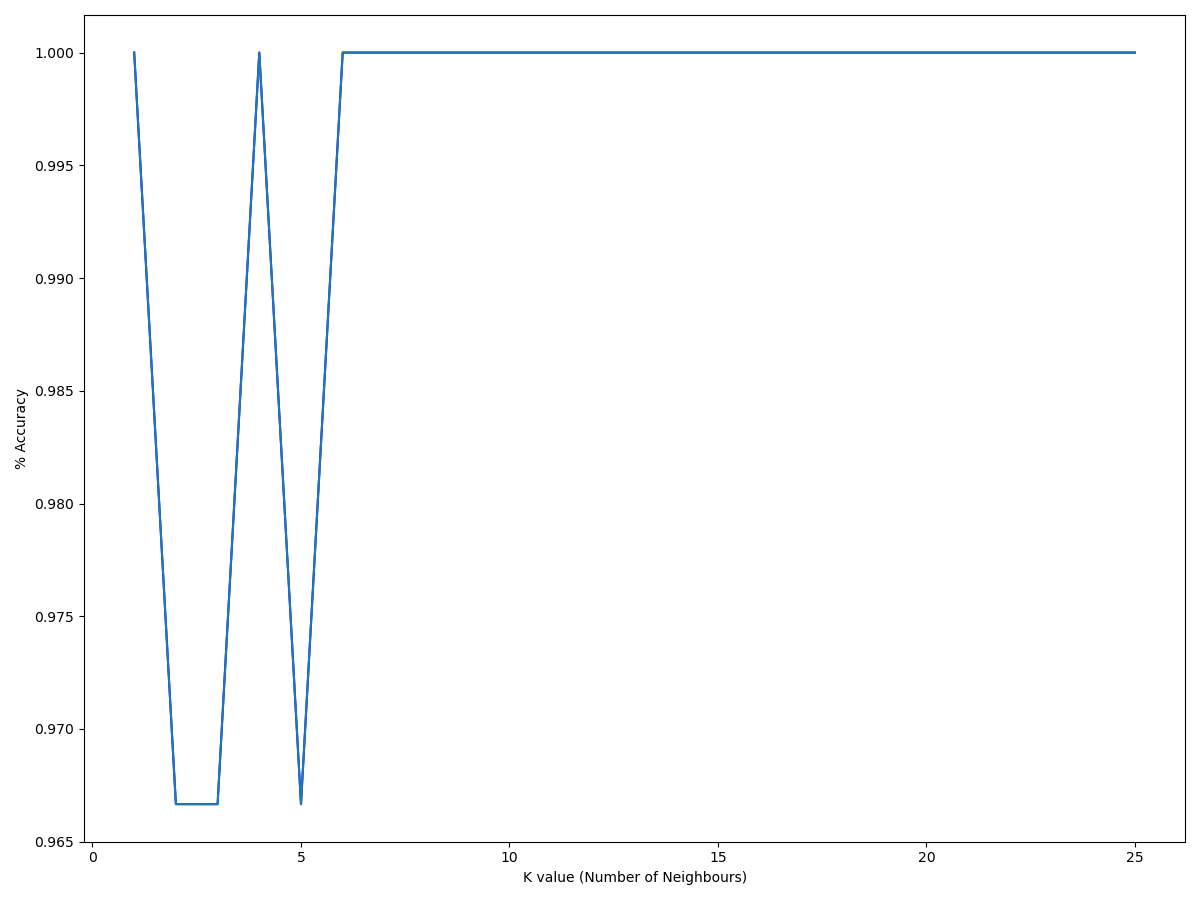
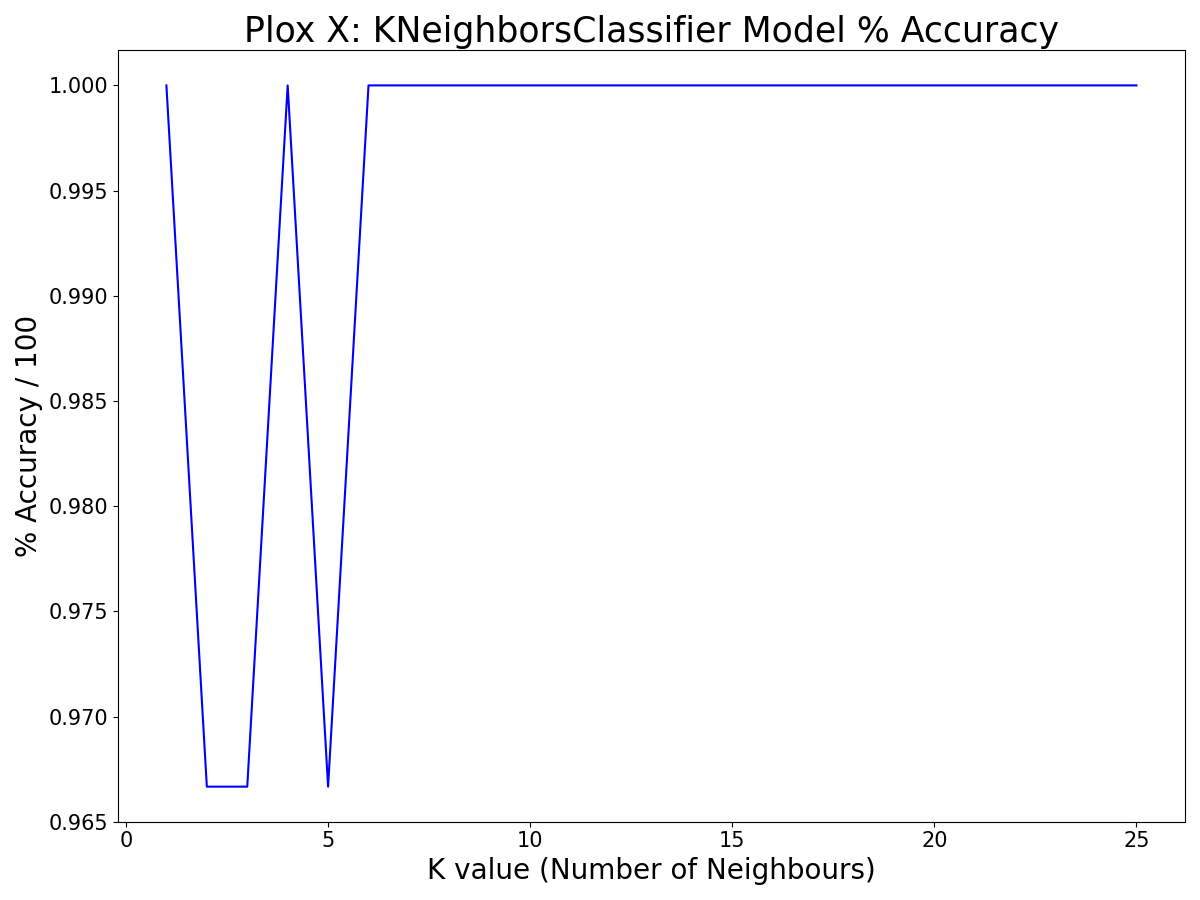
test

diff --git a/Project/analysis.py b/Project/analysis.py
@@ -1,78 +1,50 @@
 import pandas as pd
 import numpy as np
 import seaborn as sns
-from matplotlib import patches as mpatches
 import matplotlib.pyplot as plt
+from matplotlib import patches as mpatches
 import os 
 
-os.chdir(os.path.dirname(__file__))                                                              # change current directory to that of this module
+os.chdir(os.path.dirname(__file__))                                                                    # change current directory to that of this module
 
 
 def read_iris_dataset():
     iris_data_file = 'iris_data_set.txt'
-    iris_df = pd.read_csv(iris_data_file, delimiter = ',', header = None)                        # read in Iris Dataset via Pandas Library
-    iris_df.columns =['sepal_length', 'sepal_width', 'petal_length', 'petal_width','species']    # add columns headers
-    return iris_df                                                                               # return dataframe
- 
-iris_df = read_iris_dataset()                                                                    # store dataframe in iris_df variable
+    iris_df = pd.read_csv(iris_data_file, delimiter = ',', header = None)                              # read in Iris Dataset via Pandas Library
+    iris_df.columns =['sepal_length', 'sepal_width', 'petal_length', 'petal_width','species']          # add columns headers
+    return iris_df
 
+iris_df = read_iris_dataset()
 
-
-
-class summary_creator:  
-    # constructor __init__ method:
-        # called when object is Instantiated
-        # allows summary_creator class to initialise its attributes
-
-    def __init__(self, shape, data_types, null_count, species_count, desc_all_species, df_head, skewness_all_species, kurtosis_all_species, correlation):
-        self.shape = shape
-        self.data_types = data_types
-        self.null_count = null_count
-        self.species_count = species_count
-        self.desc_all_species = desc_all_species
-        self.df_head = df_head
-        self.skewness_all_species = skewness_all_species
-        self.kurtosis_all_species = kurtosis_all_species
-        self.correlation = correlation
     
+def summary_writer():
+    shape = (len(iris_df.axes[1]),len(iris_df.axes[0]))                                  # Count # rows on each axis of array
+    data_types = iris_df.dtypes                                                                                                            
+    null_count = iris_df.isnull().sum()                                                  # True for NaN / blank values
+    species_count = iris_df.groupby('species').size()                                    # Group by species get count                                 
+    desc_all_species = iris_df.describe()
+    df_head = iris_df.head(5)
+    skewness_all_species = iris_df.skew()
+    kurtosis_all_species = iris_df.kurtosis()
+    correlation = iris_df.corr()
+    pd.set_option("display.precision", 2)
+    write_summary_variables(shape, data_types, null_count, species_count, desc_all_species, df_head, skewness_all_species ,kurtosis_all_species, correlation)
 
-    # instance method
-        # calls object attributes relevant to summary
-        # writes the summaries (w = overwrite) to text file, operation will make file if doesnt exist
-    def write_function(self):
-        with open('summary_file.txt', 'w') as f:      
-            spacing_variable = ('\n' * 3)
-            f.write('Fisher Iris Dataset Summary' + spacing_variable)
-            f.write('Number of columns = {} \nNumber of rows = {}{}'.format(summary_creator_val.shape[0],summary_creator_val.shape[1],spacing_variable)) 
-            f.write('Column name:  Pandas dtypes: \n'+ str(summary_creator_val.data_types) + spacing_variable) 
-            f.write('Column name:  Null Count: \n'+ str(summary_creator_val.null_count) + spacing_variable)
-            f.write('Row Count per Species: \n'+ str(summary_creator_val.species_count) + spacing_variable)          
-            f.write(' '*17 + 'First 5 rows of the Dataset\n' + str(summary_creator_val.df_head)  + spacing_variable)
-            f.write(' '*17 + 'All Species : Summary Statistics \n' + str(summary_creator_val.desc_all_species) + spacing_variable)
-            f.write('Distribution Skewness \n' + str(summary_creator_val.skewness_all_species) + spacing_variable)
-            f.write('Distribution Kurtosis \n' + str(summary_creator_val.kurtosis_all_species) + spacing_variable)
-            f.write(' '*17 + 'All Species : Correlation Statistics \n' + str(summary_creator_val.correlation) + spacing_variable)
-
-
-def summary_variables():                                                                     # setting summary variables via pandas methods
-        shape = (len(iris_df.axes[1]),len(iris_df.axes[0]))                                  # length/width of dataframe
-        data_types = iris_df.dtypes                                                          # data-types of columns                                                           
-        null_count = iris_df.isnull().sum()                                                  # True for NaN / blank values
-        species_count = iris_df.groupby('species').size()                                    # Computes group sizes                                 
-        desc_all_species = iris_df.describe()                                                # dataframe summary 
-        df_head = iris_df.head(5)                                                            # first 5 rows of dataframe
-        skewness = iris_df.skew()                                                            # returns skew of all iris features                        
-        kurtosis = iris_df.kurtosis()                                                        # returns kurtosis of all iris features
-        correlation = iris_df.corr()                                                         # Compute pairwise Pearsons correlation of columns
-        pd.set_option("display.precision", 2)                                                # display data to 2 decimal places
-
-        # Instantiate an object of type summary_creator & return object
-        summary_creator_val = summary_creator(shape, data_types, null_count, species_count, 
-        desc_all_species, df_head, skewness, kurtosis, correlation)
-        return summary_creator_val
-
-summary_creator_val = summary_variables()                                               # set variable to object (via calling function and returning object)
-summary_creator_val.write_function()                                                    # call write_function() instance method of summary_creator class
+   
+# this function recieves all the summary variables from "summary_writer" function and writes them to summary_file.txt
+def write_summary_variables(shape, data_types, null_count, species_count, desc_all_species, df_head, skewness_all_species, kurtosis_all_species, correlation):
+    with open('summary_file.txt', 'w') as f:
+        skip_three_lines = ('\n' * 3)
+        f.write('Fisher Iris Dataset Summary' + skip_three_lines)
+        f.write('Number of columns = {} \nNumber of rows = {}{}'.format(shape[0],shape[1],skip_three_lines)) 
+        f.write('Column name:  Pandas dtypes: \n'+ str(data_types) + skip_three_lines) 
+        f.write('Column name:  Null Count: \n'+ str(null_count) + skip_three_lines)
+        f.write('Row Count per Species: \n'+ str(species_count) + skip_three_lines)  
+        f.write(' '*17 + 'First 5 rows of the Dataset\n' + str(desc_all_species)  + skip_three_lines)
+        f.write(' '*17 + 'All Species : Summary Statistics \n' + str(df_head) + skip_three_lines)
+        f.write('Distribution Skewness \n' + str(skewness_all_species) + skip_three_lines)
+        f.write('Distribution Kurtosis \n' + str(kurtosis_all_species) + skip_three_lines)
+        f.write(' '*17 + 'All Species : Correlation Statistics \n' + str(correlation) + skip_three_lines)
 
 
 
@@ -166,7 +138,6 @@ def scatter_plot():
         ax.set_ylabel(y, fontsize=20)
         ax.set_xlim([0, 8])
         ax.set_ylim([0, 8])
-
         plt.setp(ax.get_xticklabels(), fontsize=15)  
         plt.setp(ax.get_yticklabels(), fontsize=15)  
     
@@ -175,22 +146,28 @@ def scatter_plot():
     plt.savefig('Images/' + 'scatter_plots' +'.png')   
 
 
-
-def implot(): 
-# Reference:
-# Waskom, M, 2021, seaborn.implot, viewed 24 April 2021, https://seaborn.pydata.org/generated/seaborn.lmplot.html.
-    sns.lmplot(data=iris_df, x='petal_width', y='petal_length', hue = 'species')
-    plt.suptitle('Plot X: Scatter Plot of all petal length Vs. petal width',fontsize = 11)
-    plt.tight_layout()
-    plt.savefig('Images/' + 'implot' +'.png')
     
-    
-
 if __name__ == '__main__':
+    summary_writer()
     plot_histograms('histograms_petals','Plot 1','Petals','petal_length','petal_width')
     plot_histograms('histograms_sepals','Plot 2','Sepals','sepal_length','sepal_width')
     plot_boxplot()
     scatter_plot()
-    implot()
 else:
     pass
+
+'''
+class Summary:
+  def __init__(self, shape, null_count):
+    self.shape = shape
+    self.null_count = null_count
+
+summaryValues = Summary(
+    5, 
+    3
+)
+
+#you can send summaryValues to the write function with dot name of val
+print(summaryValues.shape)
+'''
+

diff --git a/Project/machine_learning.py b/Project/machine_learning.py
@@ -3,12 +3,14 @@
 # also evaluates a range of k values to obtain info. on more effective K values.
 # Author Ciaran Moran
 
+
 import pandas as pd
 import numpy as np
 import matplotlib.pyplot as plt
 import seaborn as sns
 from analysis import read_iris_dataset
 
+# machine learning libraries
 from sklearn.neighbors import KNeighborsClassifier
 from sklearn.model_selection import train_test_split
 from sklearn import preprocessing
@@ -16,12 +18,13 @@ from sklearn import metrics
 from mlxtend.feature_selection import ExhaustiveFeatureSelector as EFS
 
 
+
 def define_dataframes():
     iris_df = read_iris_dataset()                                                                    # store iris dataframe (function was imported)
     iris_data = iris_df[["petal_length", "petal_width", "sepal_length","sepal_width"]].to_numpy()    # seperate feature columns into numpy list of lists
     iris_target = iris_df[iris_df.columns[4]]                                                        # store iris Species series in variable
     label_encoder = preprocessing.LabelEncoder()                                                     # instansiate label encoder object
-    iris_target_numeric = label_encoder.fit_transform(iris_target)                                   # fit species series into label_encoder object (as numpy array) using fit_transform function 
+    iris_target_numeric = label_encoder.fit_transform(iris_target)                                   # fit species series into label_encoder object (as numpy array) using fit_transform function-> converts species to numbers
     
     # pass relevant numpy arrays
     knn_model_k_single(iris_data, iris_target_numeric)                                               
@@ -35,39 +38,35 @@ def knn_model_k_single(iris_data, iris_target_numeric):
 # http://rasbt.github.io/mlxtend/user_guide/feature_selection/ExhaustiveFeatureSelector/#example-2-visualizing-the-feature-selection-results
 
     # set model parameters
-    knn = KNeighborsClassifier(n_neighbors=3)   # looks a 3 nearest neighbours (including itself as datapoint)
-    efs1 = EFS(knn,                             # specify model type 
-            min_features=1,                     # min features for comparison 
-            max_features=4,                     # min features for comparison 
-            scoring='accuracy',                 # accuracy method
+    knn = KNeighborsClassifier(n_neighbors=3)                   # call KNN model, will use 3 nearest neighbours
+    efs1 = EFS(knn,                                             # specify model type for exhaustive feature selection library
+            min_features=1,                                     # min features for comparison 
+            max_features=4,                                     # min features for comparison 
+            scoring='accuracy',                                 # accuracy method
             print_progress=True,             
-            cv = 10)                             # cross validation splits data into 5 groups of 30 observations 
+            cv = 10)                                            # cross validation splits data into 5 groups of 30 observations 
     
 
     feature_names = ['sepal length', 'sepal width', 'petal length', 'petal width']        # feature names into list
     efs1 = efs1.fit(iris_data, iris_target_numeric, custom_feature_names = feature_names) # fit data to efs1 pre-defined model
     df = pd.DataFrame.from_dict(efs1.get_metric_dict()).T                                 # uses get_metric_dict method on efs1 variable, efs1 is then converted from dict to dataframe
     df.sort_values('avg_score', inplace=True, ascending=False)                            # sort column in ascending order, inplace True means no copy is made
-  
+    print(df.head(10))
 
     # Create bar chart on mean performance of each subset of features
     fig, ax = plt.subplots(figsize=(12,9))                                                # create figure & axes
     y_pos = np.arange(len(df))                                                            # stores evenly spaced values that total the length of the df 
 
+    plt.title('Plox X: KNeighborsClassifier Model Accuracy', fontsize = 20)               # add title
     ax.barh(y_pos, df['avg_score'], xerr=df['std_dev'])                                   # sets chart parameters
     ax.set_yticks(y_pos)                                                                  # sets y positions 
     ax.set_yticklabels(df['feature_names'])                                               # sets y labels
     ax.yaxis.tick_right()                                                                 # y axis ticks right
     ax.yaxis.set_label_position("right")                                                  # y axis labels right 
-    ax.set_xlabel('Accuracy')                                                             # sets x axis labels
-    plt.title('Plox X: KNeighborsClassifier Model % Accuracy')                            # add title
-    
+    ax.set_xlabel('Accuracy / 100')                                                       # sets x axis labels
     fig.tight_layout()                                                                    # adjust plot format to frame size
     plt.savefig('Images/' + 'knn_model_k_single' +'.png')   
-    
 
-
-#https://towardsdatascience.com/knn-using-scikit-learn-c6bed765be75
 
 
 def knn_model_k_multiple(iris_data, iris_target_numeric):
@@ -75,28 +74,34 @@ def knn_model_k_multiple(iris_data, iris_target_numeric):
 # M, S, 2018, MachineLearning — KNN using scikit-learn, towards data science, viewed 27 April 2021, 
 # https://towardsdatascience.com/knn-using-scikit-learn-c6bed765be75.
 
+
+    # splits the numpy arrays into 20 : 80 sets for test size: train size  
+    # random state control how splitting occuers, e.g a value of 0 will retain the same splitting method 
     X_train, x_test, Y_train, y_test = train_test_split(iris_data, iris_target_numeric, test_size=0.2, random_state = 0)
 
-    k_range = range(1,26)
+    k_range = range(1,26)        # define range for loop
     score = {}
     score_list = []
 
     for k in k_range:
-        knn = KNeighborsClassifier(n_neighbors = k)
-        knn.fit(X_train,Y_train)
-        y_pred = knn.predict(x_test)
-        score[k] = metrics.accuracy_score(y_test, y_pred)
-        score_list.append(metrics.accuracy_score(y_test, y_pred))
+        knn = KNeighborsClassifier(n_neighbors = k)                 # define knn as KNNClassifier and set k value as iterator          
+        knn.fit(X_train,Y_train)                                    # Fit the k-nearest neighbors classifier from the training dataset
+        y_pred = knn.predict(x_test)                                # Predict the class labels for the provided data
+        score[k] = metrics.accuracy_score(y_test, y_pred)           # computes accuracy of test vs predicted datasets
+        score_list.append(metrics.accuracy_score(y_test, y_pred))   # appends accuracy scores to score_list
 
-    plt.clf()                                                             # Clear figure
-    sns.lineplot(x = k_range, y = score_list, color = 'blue')             # line plot
-    plt.plot(k_range, score_list)
-    plt.xlabel('K value (Number of Neighbours)')
-    plt.ylabel('% Accuracy') 
+    plt.clf()                                                                            # Clear figure
+    plt.title('Plox X: KNeighborsClassifier Model % Accuracy', fontsize = 25)            # add title
+    ax = sns.lineplot(x = k_range, y = score_list, color = 'blue')                       # seaborn line plot
+    ax.set_xlabel('K value (Number of Neighbours)', fontsize=20)                         # set xlabel and fontsize
+    ax.set_ylabel('% Accuracy / 100', fontsize=20)                                       # set ylabel and fontsize
+    plt.setp(ax.get_xticklabels(), fontsize=15)                                          # set xticks and fontsize
+    plt.setp(ax.get_yticklabels(), fontsize=15)                                          # set yticks and fontsize
 
-    plt.tight_layout()   
+    plt.tight_layout()                                                                   # adjust plot format to frame size
     plt.savefig('Images/' + 'knn_model_k_multiple' +'.png')   
     
+
 
 
 if __name__ == '__main__':

diff --git a/Project/README.md b/Project/README.md
@@ -30,10 +30,8 @@
 &emsp; &emsp; 3.2.4 Correlation Analysis <br>
 &emsp; 3.3 Machine Learning <br>
 &emsp; &emsp; 3.3.1 Feature Selection <br>
-
 ### 4. Discussion 
-### 5. Summary 
-### 6. References 
+### 5. References 
 
 __1 Introduction:__ [F1*] <br/>
 
@@ -329,15 +327,20 @@ The results from plot X are very interesting. The petal features overall perform
 
 <br/>
 
-For the last part of this project the KNN model was expored in more detail in a similar fashion to Sanjay, M 2018. Interestingly he explored different k parameters being fed into the KNN algorigthm (via a for loop). This method was undertaken and the dataset was split into two parts (20:80) for model testing and training respevtively. This functionality is possible using the *train_split_test* method of the *sklearn* library and allows one to estimate the performance of a model when it makes predictions on datasets that are not used to train the model.
+For the last part of this project the KNN model was expored in more detail in a similar fashion to Sanjay, M 2018. Interestingly he explored different k parameters being fed into the KNN algorigthm (via a for loop). This method was undertaken and the whole  iris dataset, which was split into two parts (20:80) for model testing and training respevtively. This functionality is possible using the *train_split_test* method of the *sklearn* library and allows one to estimate the performance of a model when it makes predictions on datasets that are not used to train the model. See plot X for output.
 
 <br/>
 
- <img src="Images/knn_model_k_multiple.png.png"  width="1100"/>|
+ <img src="Images/knn_model_k_multiple.png"  width="1100"/>|
 
  <br/>
 
- 
+ Based on the results from figure X the KNN loop yielded the highest accuracy at k = 4 and K = 6 to 25. This ability to predict species to 100% accuracy is impressive even for a small dataset such as the Fisher Iris Dataset. Considering KNN does not have any underlying data assumptions like that of Linear Discrimant Analysis or indeed many other algorithms, it clearly can have good applications in machine learning.
+
+<br/>
+
+### 4. Discussion
+
 
 ### 5. Reference:
 [1]. Cui, Y 2020, The Iris dataset – a little bit of history and biology, towards data science, viewed 26 Match 2021,**<https://towardsdatascience.com/the-iris-dataset-a-little-bit-of-history-and-biology-fb4812f5a7b5>.**<br/>
@@ -357,9 +360,9 @@ For the last part of this project the KNN model was expored in more detail in a 
 [X] Solomon, B, 2021, Pandas GroupBy: Your Guide to Grouping Data in Python, RealPython, viewed 16 April 2021,**<https://realpython.com/pandas-groupby/#pandas-groupby-putting-it-all-together>**.<br/>
 [X] Dan, A, 2022, Kurtosis() & Skew() Function In Pandas, medium.com, viewed 19 April 2021, **<https://medium.com/@atanudan/kurtosis-skew-function-in-pandas-aa63d72e20de>**.<br/>
 [X] Ye, A, 2020, viewed 22 April 2021, All the distributions you need to know, towards data science, viewed 22 April 2021,<br/> **<https://towardsdatascience.com/all-the-distributions-you-need-to-know-ad570514987b>**.<br/>
-[X] Brownlee, J, 2018, A Gentle Introduction to k-fold Cross-Validation, viewed 27 April 2021,<br/> **<https://machinelearningmastery.com/k-fold-cross-validation/.>**.
+[X] Brownlee, J, 2018, A Gentle Introduction to k-fold Cross-Validation, viewed 27 April 2021,**<https://machinelearningmastery.com/k-fold-cross-validation/.>**.<br/>
 [X] Brownlee, J, 2018, How to Calculate Correlation Between Variables in Python, viewed 23 April 2021,<br/> **<https://machinelearningmastery.com/how-to-use-correlation-to-understand-the-relationship-between-variables/>**.
-[X] Saha, S, 2018, Baffled by Covariance and Correlation??? Get the Math and the Application in Analytics for both the terms, towards data science, viewed 23 April 2021, **<https://towardsdatascience.com/let-us-understand-the-correlation-matrix-and-covariance-matrix-d42e6b643c22>.**
-[X] Malik, U, 2021, Applying Wrapper Methods in Python for Feature Selection, Stack Abuse, **<https://stackabuse.com/applying-wrapper-methods-in-python-for-feature-selection/>.**.
-[X] Asaithambi, S, 2018, Why, How and When to apply Feature Selection, viewed 26 April 2021, **<https://towardsdatascience.com/why-how-and-when-to-apply-feature-selection-e9c69adfabf2>.**
-[X] Harrison, O, 2018, Machine Learning Basics with the K-Nearest Neighbors Algorithm, towards data science, viewed 26 april 2021, **<https://towardsdatascience.com/machine-learning-basics-with-the-k-nearest-neighbors-algorithm-6a6e71d01761>.**
+[X] Saha, S, 2018, Baffled by Covariance and Correlation??? Get the Math and the Application in Analytics for both the terms, towards data science, viewed 23 April 2021, **<https://towardsdatascience.com/let-us-understand-the-correlation-matrix-and-covariance-matrix-d42e6b643c22>.**<br/>
+[X] Malik, U, 2021, Applying Wrapper Methods in Python for Feature Selection, Stack Abuse, **<https://stackabuse.com/applying-wrapper-methods-in-python-for-feature-selection/>.**.<br/>
+[X] Asaithambi, S, 2018, Why, How and When to apply Feature Selection, viewed 26 April 2021, **<https://towardsdatascience.com/why-how-and-when-to-apply-feature-selection-e9c69adfabf2>.**<br/>
+[X] Harrison, O, 2018, Machine Learning Basics with the K-Nearest Neighbors Algorithm, towards data science, viewed 26 april 2021, **<https://towardsdatascience.com/machine-learning-basics-with-the-k-nearest-neighbors-algorithm-6a6e71d01761>.**<br/>
